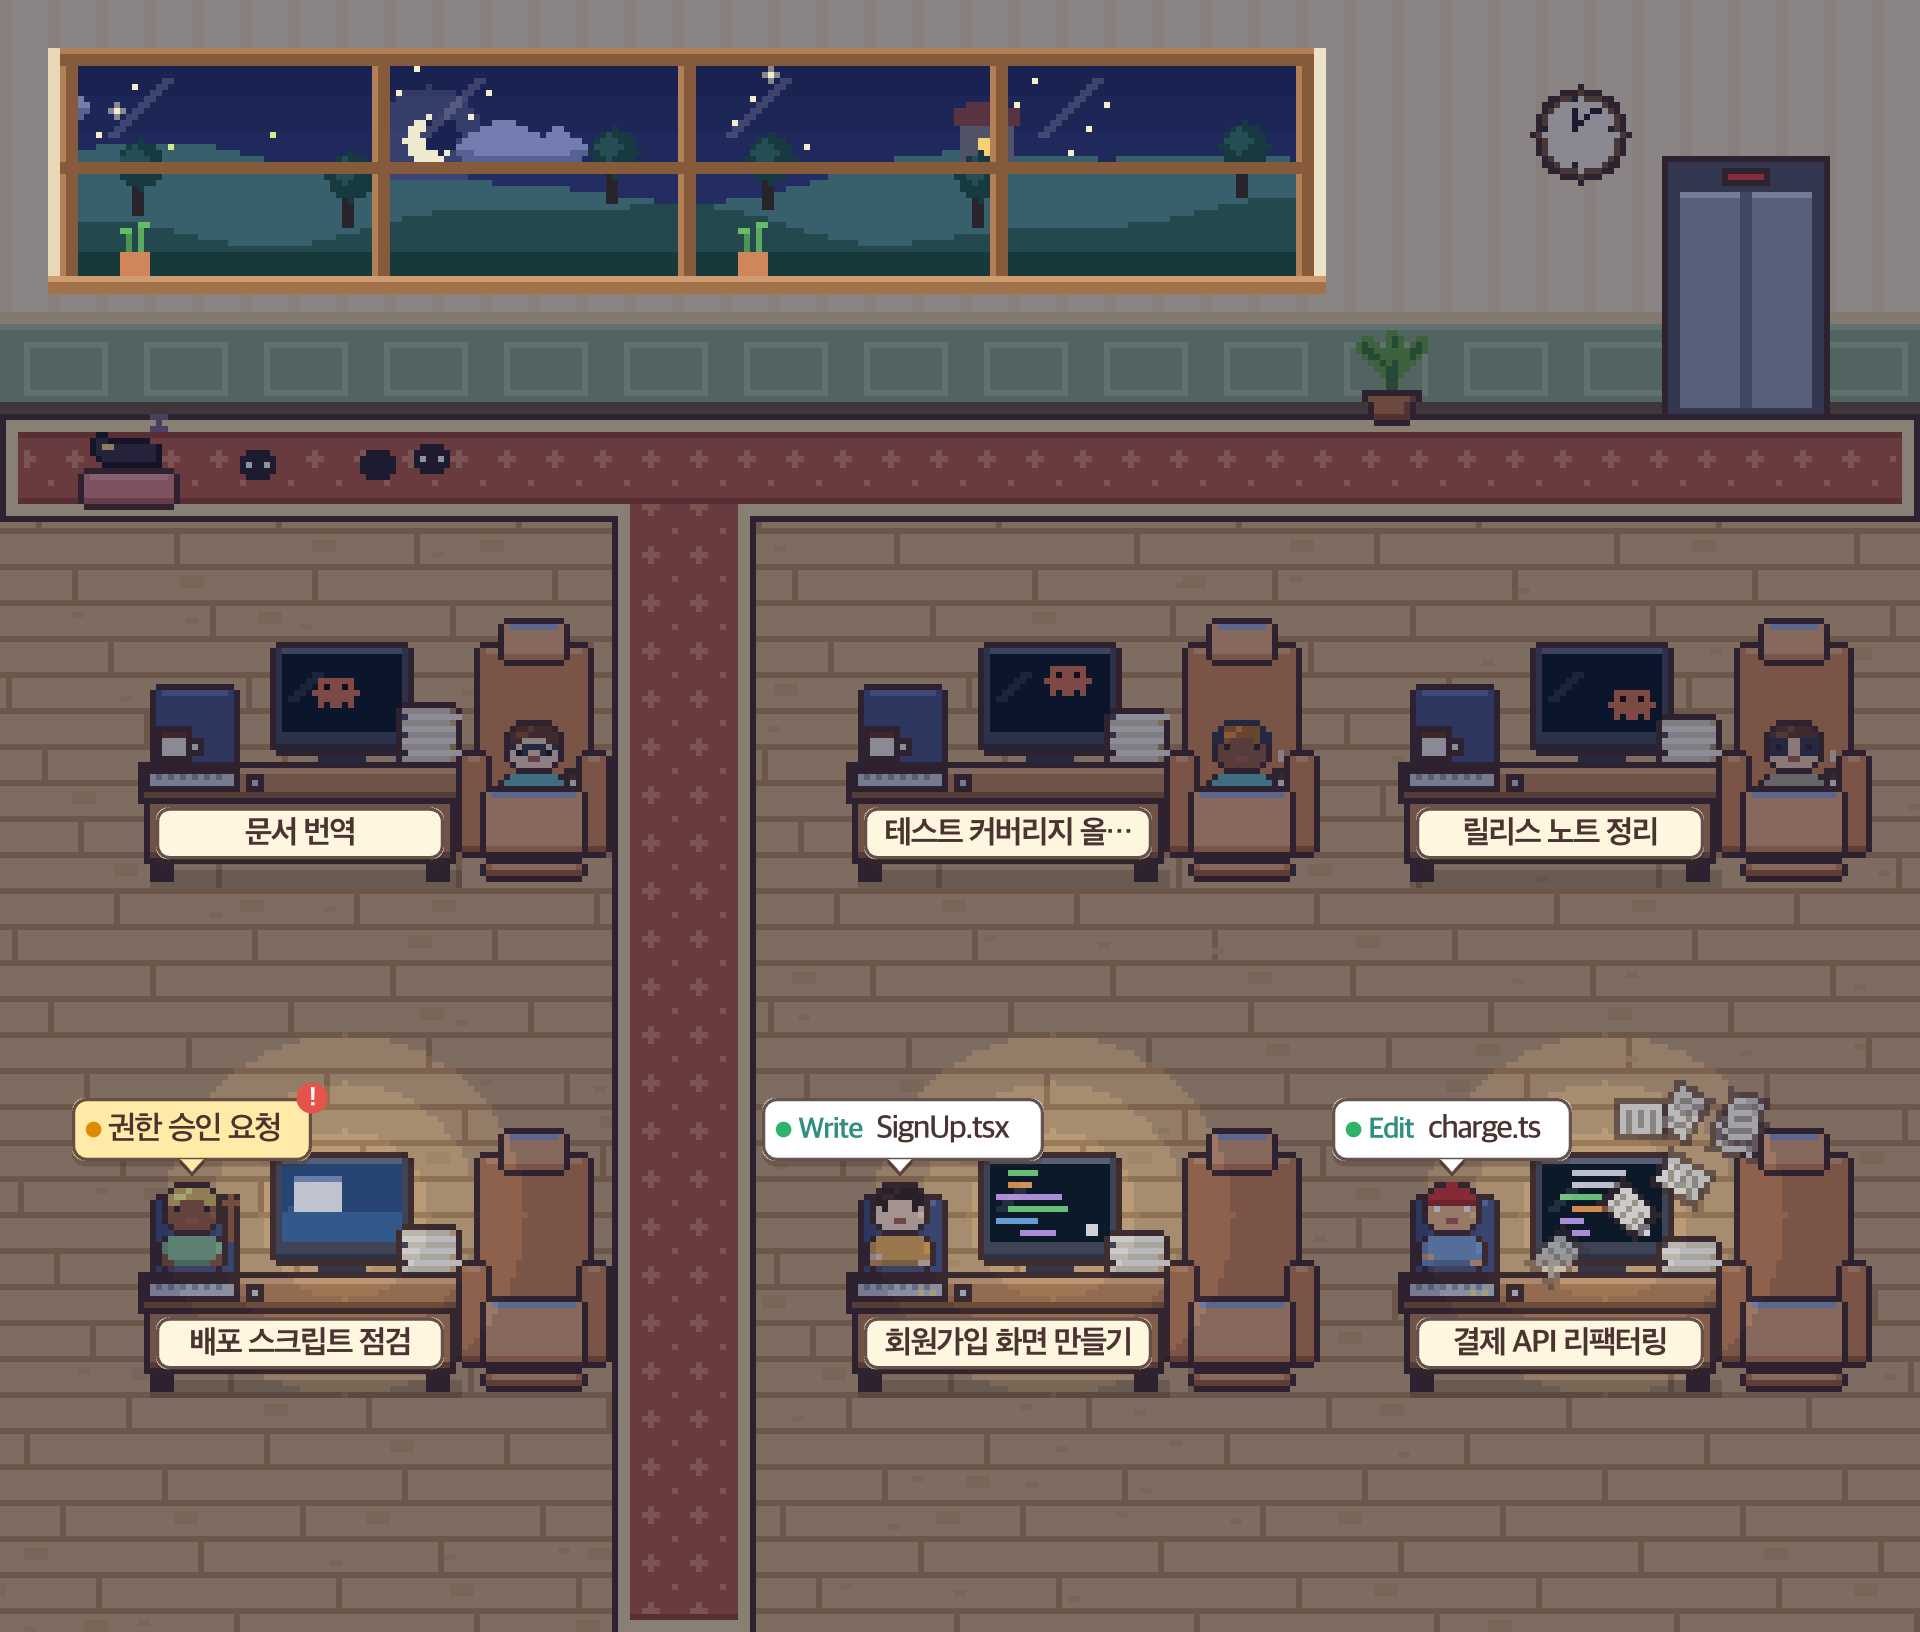
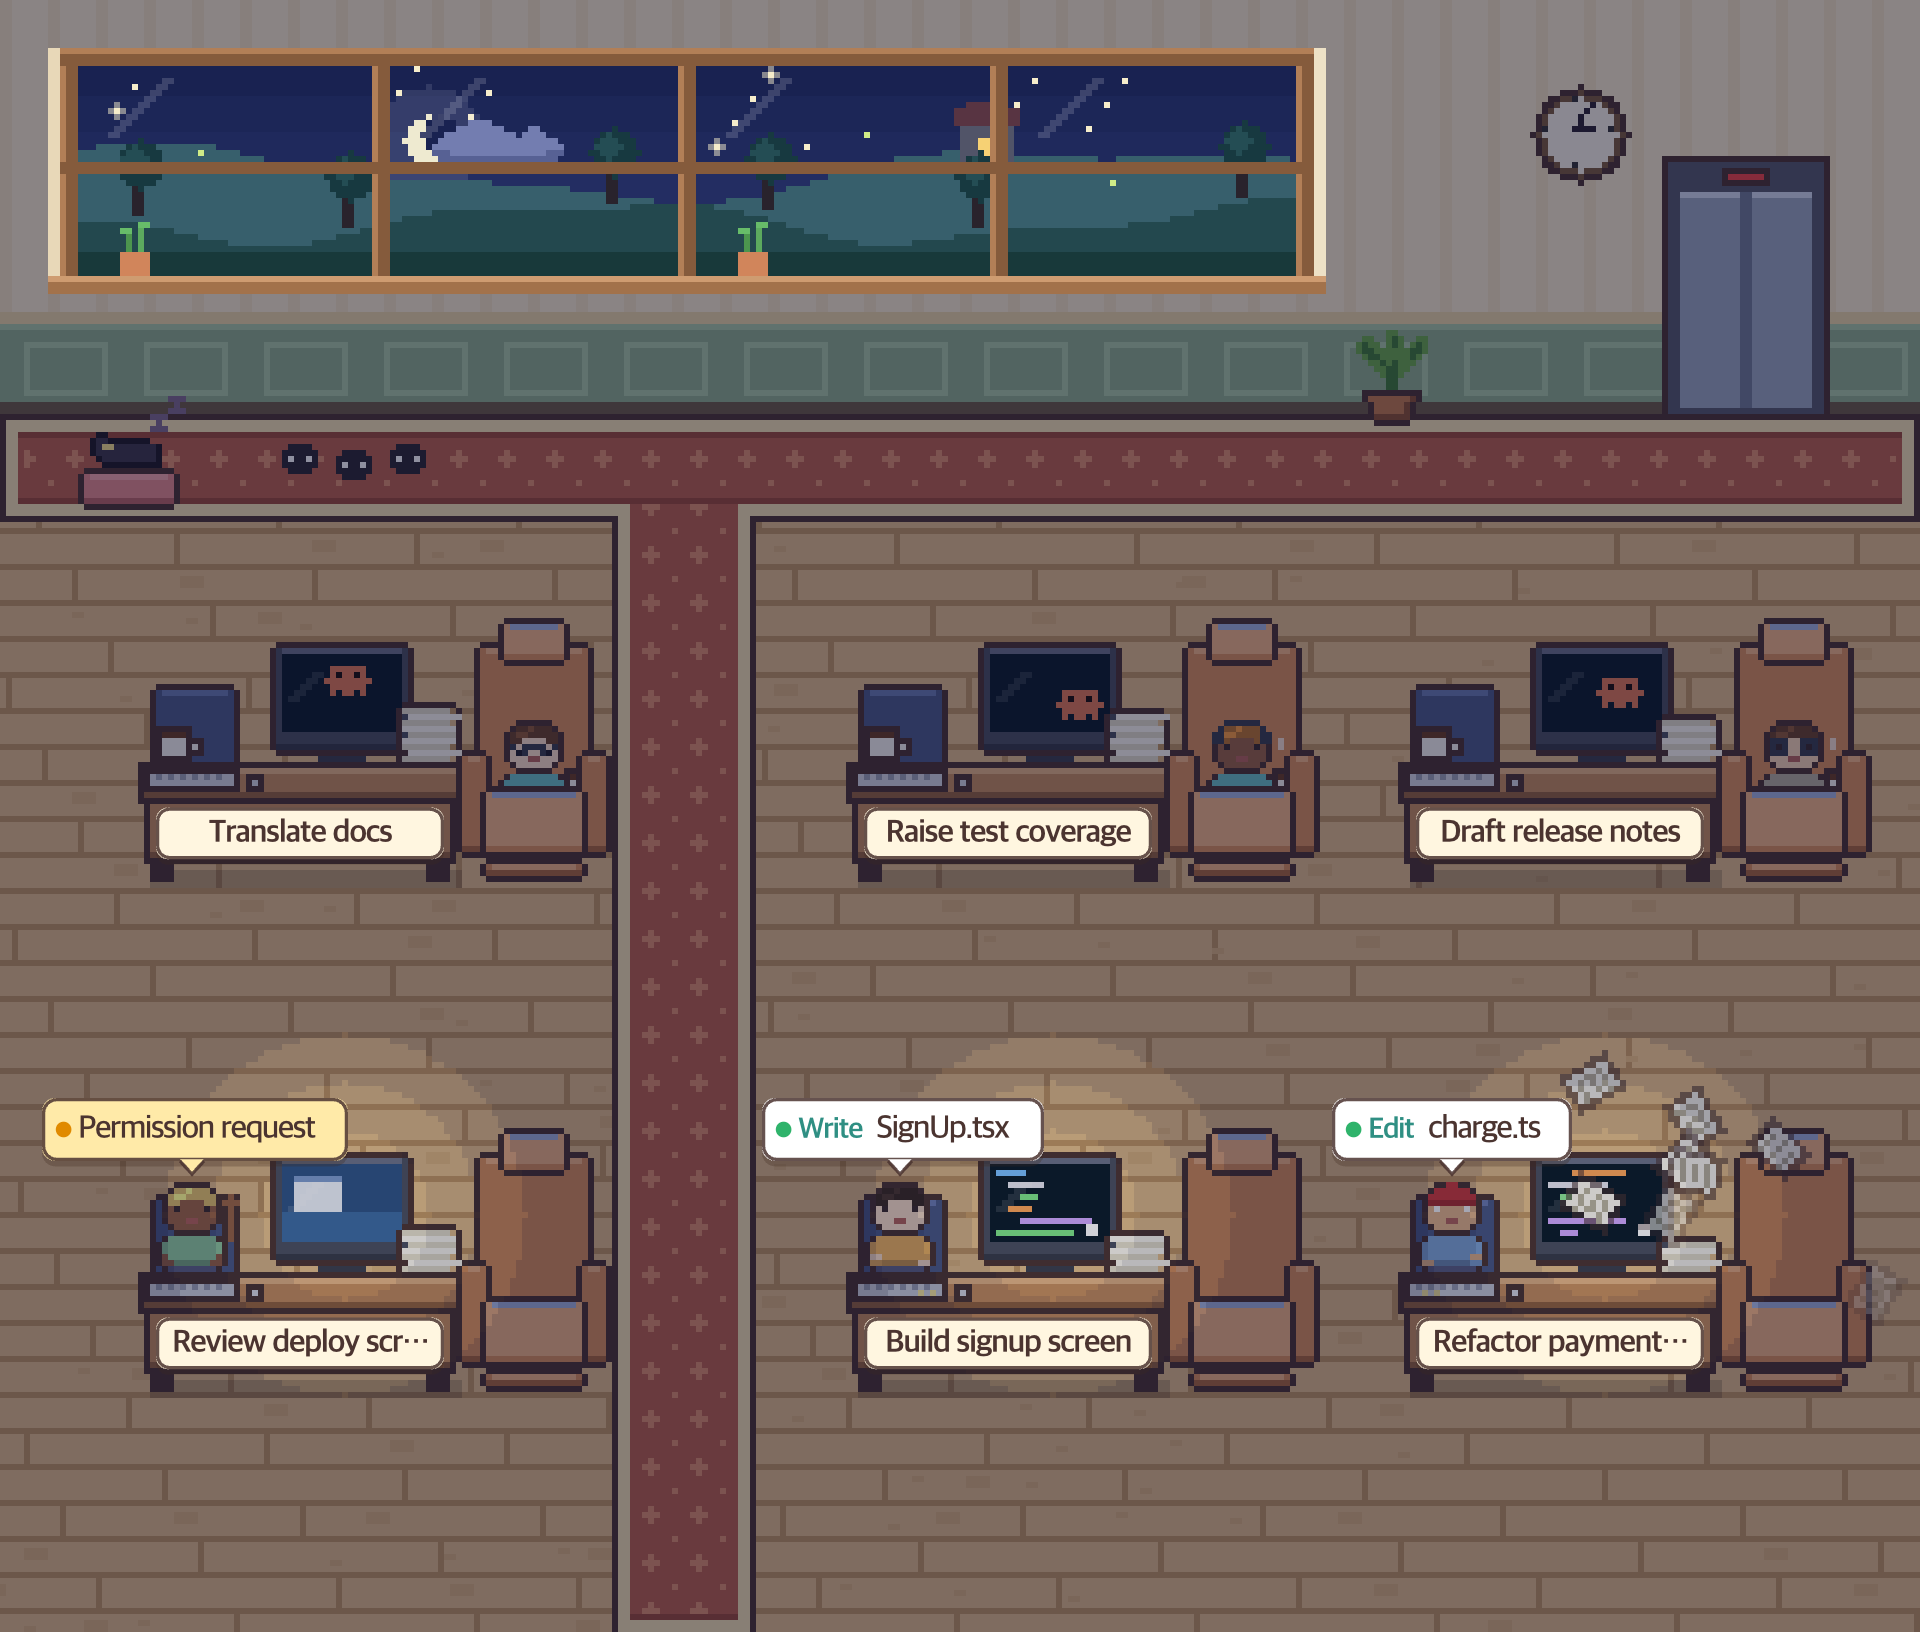
Add a demo GIF and refresh the screenshots with English demo sessions

diff --git a/README.md b/README.md
@@ -19,7 +19,7 @@ A macOS menu bar app. Every running session gets a desk, and what the session is
 [How it works](#how-it-works) •
 [Development](#development)
 
-<img src="docs/office-main.png" alt="Claude Office by day: working, waiting for approval, resting, and caffeine-rush employees" width="760">
+<img src="docs/demo.gif" alt="Claude Office in action: employees type, wait for approval, rest in recliners, and throw papers during a caffeine rush" width="720">
 
 <sub>Screenshots use fake demo sessions, not real ones.</sub>
 
